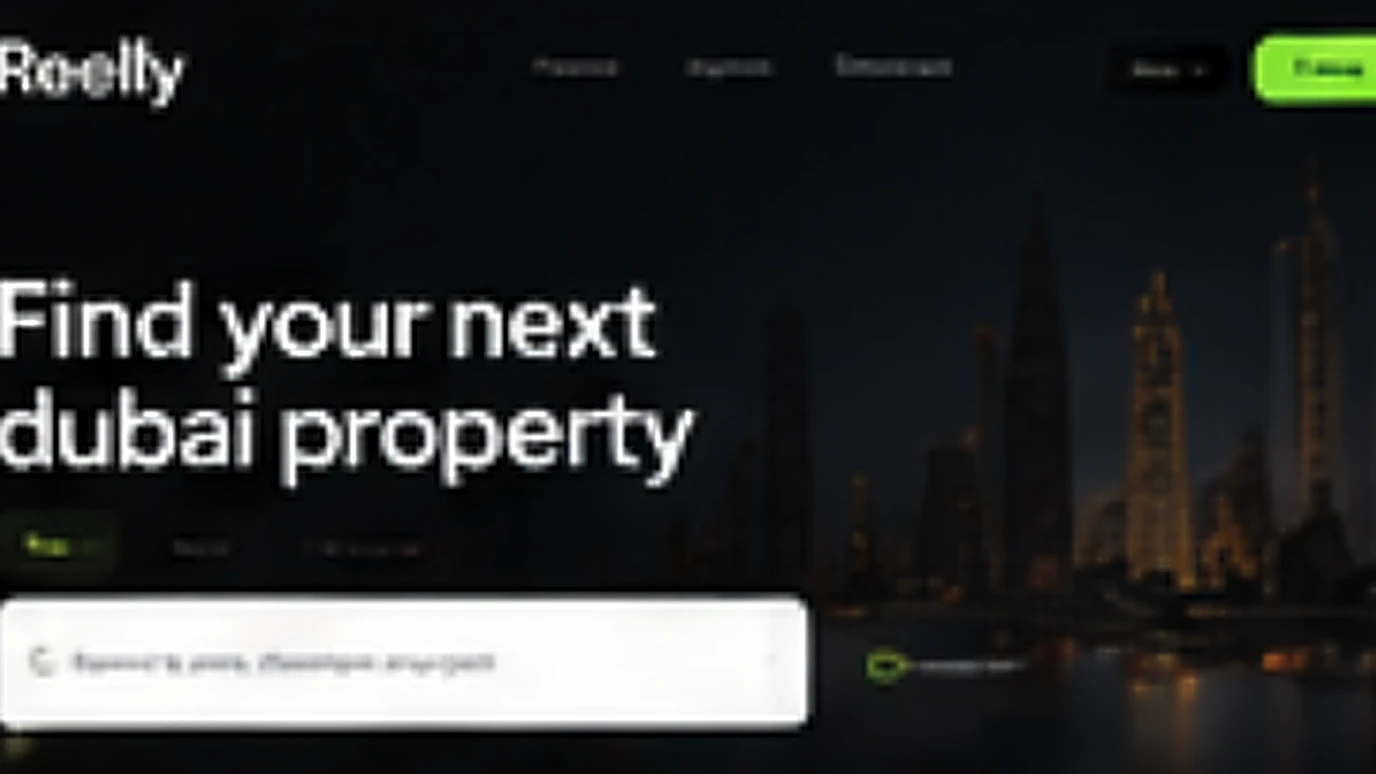
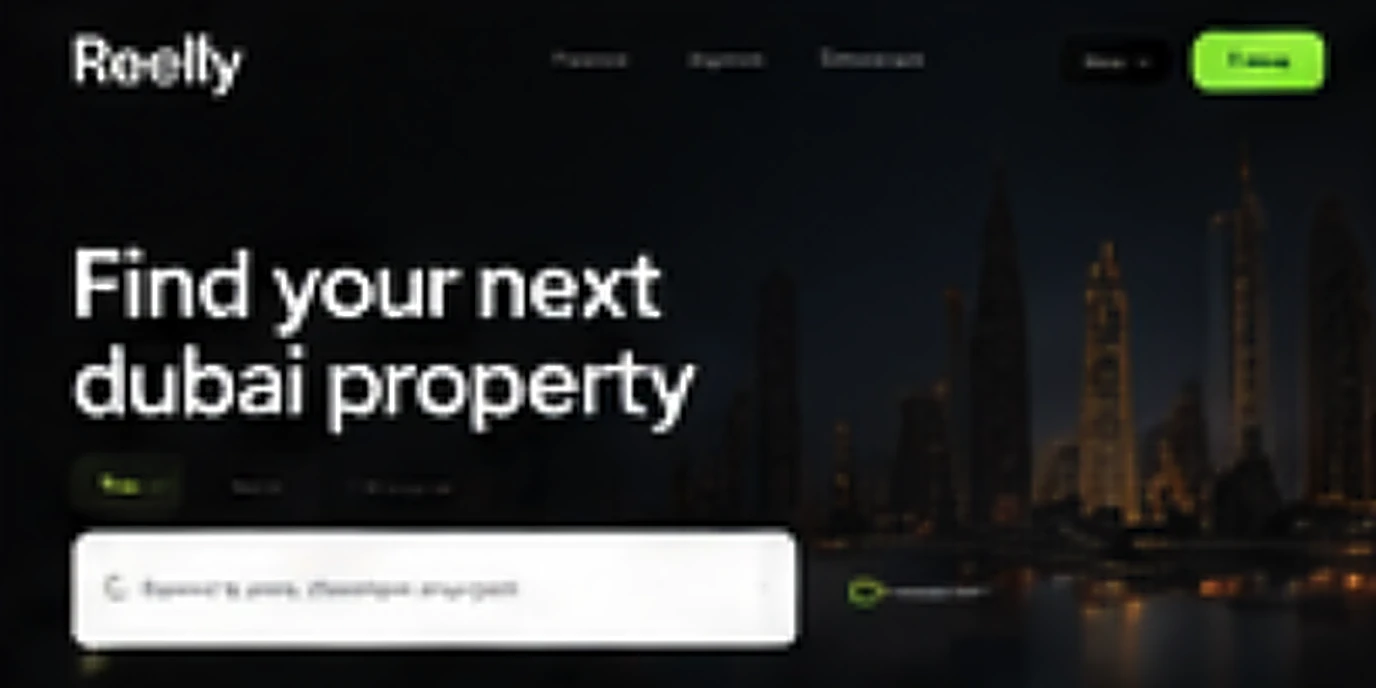
Work: show each cover whole instead of cropping its sides
The previous pass cut every cover to 16:9, which trimmed the left and
right edges of the screenshots and pushed logos and headlines against the
frame. The covers now take the proportion each row was drawn in (2:1,
9:5, 16:9), trimming at most 3% from the sides, and the same ratios hold
on mobile instead of a 16:10 crop.

Claude-Session: https://claude.ai/code/session_01PBH6KEuBWRgbbfXCVghN1M

diff --git a/styles.css b/styles.css
@@ -634,9 +634,13 @@ nav.scrolled { background: rgba(255, 255, 255, 0.92); backdrop-filter: blur(14px
 /* The shot lives on a layer of its own so hover can push it closer without
    the rounded frame growing with it. */
 .wrow-shot {
-  position: relative; display: block; width: 100%; aspect-ratio: 16 / 9;
+  position: relative; display: block; width: 100%; aspect-ratio: 2 / 1;
   border-radius: var(--radius-card); overflow: hidden;
 }
+/* Each row takes the proportion its two screenshots were drawn in, so the
+   cover is shown whole instead of being cropped at the sides. */
+.wrow:nth-child(n+3) .wrow-shot { aspect-ratio: 9 / 5; }
+.wrow:nth-child(n+5) .wrow-shot { aspect-ratio: 16 / 9; }
 .wrow-shot::before {
   content: ""; position: absolute; inset: 0;
   background-image: var(--shot); background-size: cover; background-position: center;
@@ -768,7 +772,6 @@ footer {
   .work-sub-br { display: none; }
   .work-all { justify-self: start; margin-top: 22px; font-size: clamp(0.7rem, 2.9vw, 0.8rem); }
   .work-rows { grid-template-columns: 1fr; gap: 36px; }
-  .wrow-shot { aspect-ratio: 16 / 10; }
   .wrow-kicker { margin-top: 16px; font-size: clamp(0.68rem, 2.9vw, 0.78rem); }
   .wrow-head { margin-top: 12px; }
   .wrow-name { font-size: clamp(1.9rem, 8vw, 2.4rem); }
